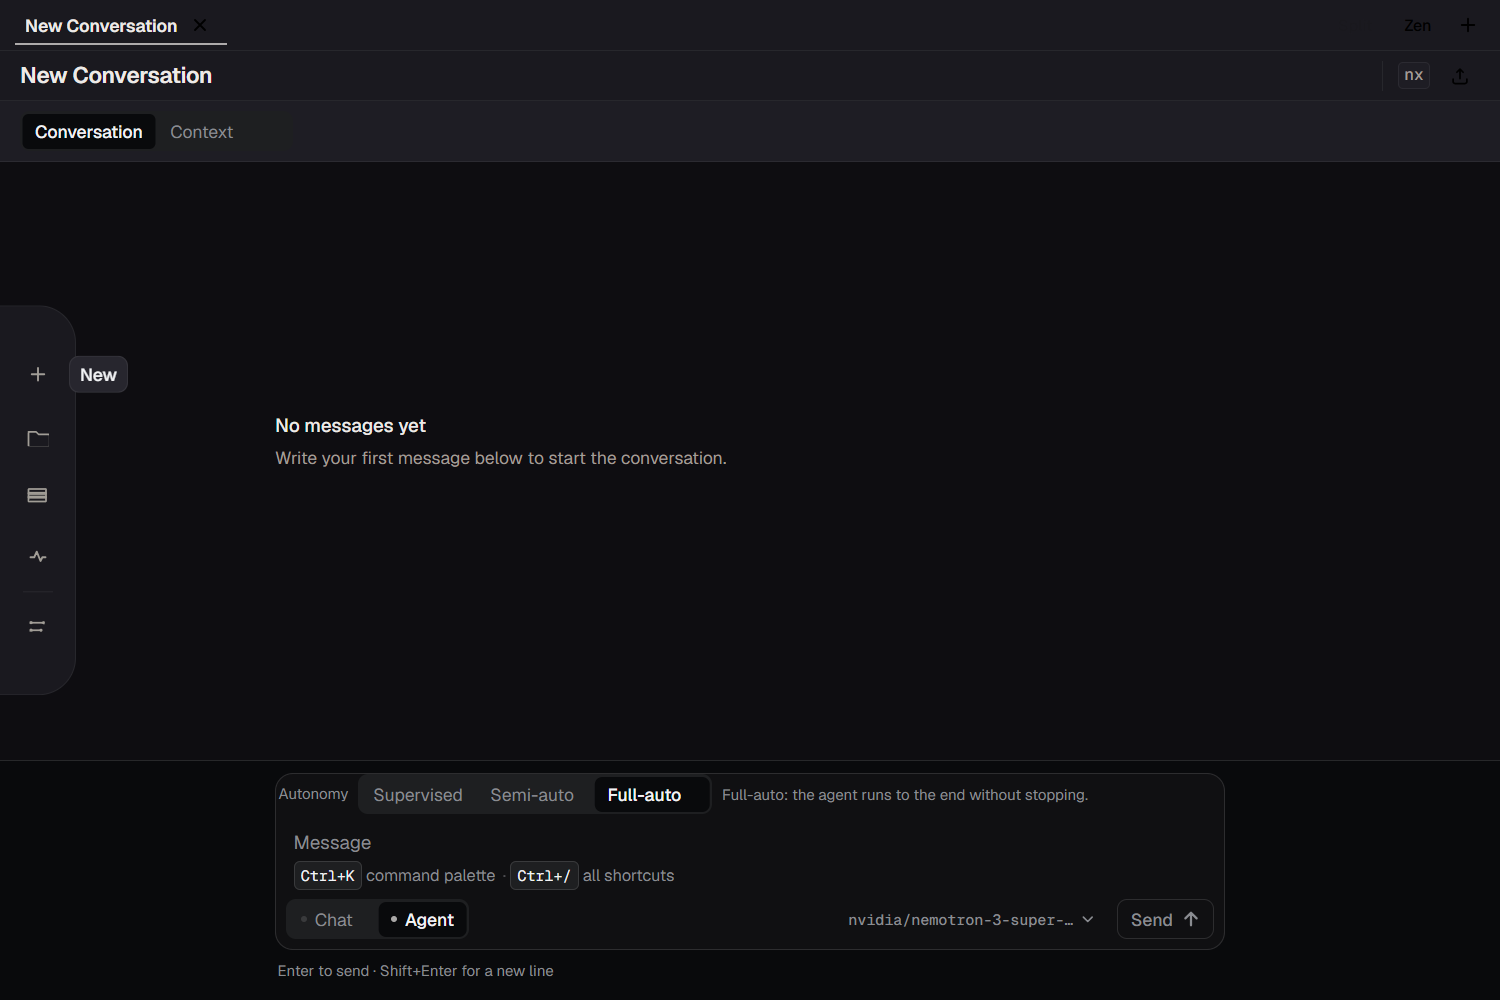
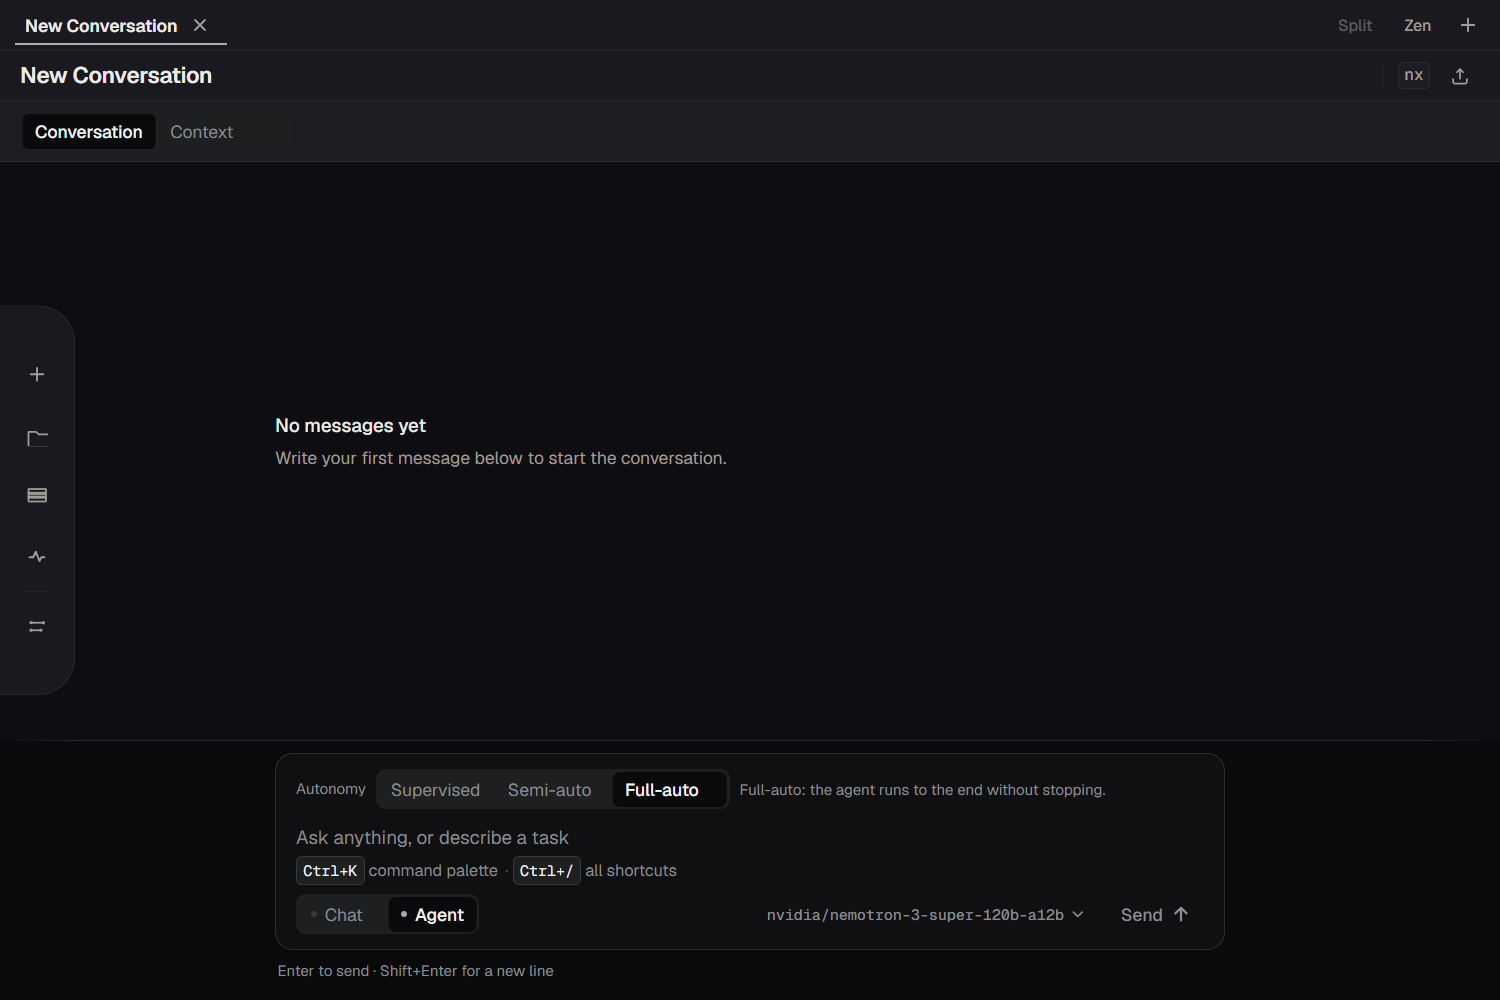
docs(proof): phase C frames on the final composer (placeholder, inset, unarmed Send, full model id)

diff --git a/docs/proof/round4/phase-c/README.md b/docs/proof/round4/phase-c/README.md
@@ -2,29 +2,31 @@
 
 Real Tauri build (`npm run tauri dev`), client area only, 125 % display scaling (a 1200×800
 CSS viewport is a 1500×1000 PNG). A conversation was opened through the Dock's "New" button
-so the composer is mounted; the pointer was parked off every hover target so no tooltip sits
-in a frame. Captured on top of the merged shell fixes (Dock gutter, shared reading axis,
-strip controls), so the frames show the composer as it will actually ship.
+and focus was moved off the Dock before each shot, so no tooltip sits in a frame. Captured on
+top of the merged shell fixes (Dock gutter, shared reading axis, scroll viewports, strip
+controls), so the frames show the composer as it will actually ship.
 
 | File | CSS viewport | PNG | MD5 | Colours | What I saw |
 |---|---|---|---|---|---|
-| `01-agent-1200x800-dark.png` | 1200×800 | 1500×1000 | `4C923EFC90A0AD95D2948B255BC53045` | 4181 | Pane opens in Agent: the mode pill rests on "Agent", the autonomy pill rests on "Full-auto" with an equal ring on both ends, the "Message" field is visible above the hint row, the model id is readable metadata, Send is drawn unarmed, and no attach control exists anywhere. The empty state sits on the same left edge as the composer card. |
-| `02-agent-1024x720-dark.png` | 1024×720 | 1280×900 | `CB62815F8C5BB6E3416AAE27B3B35B1E` | 4574 | Same state at the minimum window: the composer keeps its four rows without wrapping, the field and the model id stay legible, the axis holds at 164, nothing clips inside the card. |
+| `01-agent-1200x800-dark.png` | 1200×800 | 1500×1000 | `8EAADD2CF635EB92C33B68A7FD3FEDD1` | 4138 | Pane opens in Agent: the mode pill rests on "Agent", the autonomy pill rests on "Full-auto" with an equal ring on both ends, the field's placeholder reads "Ask anything, or describe a task" on the same left edge as the teaching row and the pill row beneath it, the model id shows in full (`nvidia/nemotron-3-super-120b-a12b`), Send is drawn unarmed with no border, and no attach control exists anywhere. The empty state, the placeholder and the composer card share one left edge. |
+| `02-agent-1024x720-dark.png` | 1024×720 | 1280×900 | `B62DDE81B4189609E9F579A5B4FAEBAB` | 4145 | Same state at the minimum window: the composer keeps its four rows without wrapping, the placeholder, teaching row and pills stay on one edge, the model id still shows in full, nothing clips inside the card, and the axis holds at 132 CSS. |
+| `03-agent-1536x800-dark.png` | 1536×800 | 1920×1000 | `DCF216F09A503ACE77499FE912EB0F1D` | 4138 | Same at the widest check point: the 760 px card stays centred at 388 CSS, the strip's right cluster keeps its place, and the wider window adds air on both sides of the column rather than stretching the measure. |
 
-Both frames are distinct and carry >900 colours.
+Every frame is distinct and carries >900 colours.
 
 ## What these frames prove / do not prove
 
 - Prove: Agent is the default mode in a real build; the attachment affordance is absent in
-  Agent; the composer shows an editable field with its "Message" legend; the Glide Select
-  pill is seated symmetrically inside its track in two groups (mode and autonomy) at two
-  widths; Send is visibly unarmed on an empty draft; the reading column is shared with the
-  transcript.
+  Agent; the field carries an instructive placeholder (not a noun) with no chrome of its own;
+  all four rows inside the card share one inner inset; the model id is readable in full at all
+  three widths; Send is visibly unarmed on an empty draft; the Glide Select pill is seated
+  symmetrically inside its track in two groups at three widths; the reading column is shared
+  with the transcript and the empty state.
 - Do not prove: the pill's motion (a still cannot), the model picker's row layout with its
   popover closed (covered by tests), Chat-mode paint, running/approval/complete states, RU,
-  light theme, 200 % zoom — those rows stay open for Phases D–F.
+  light theme, 200 % zoom, hover/focus-visible — those rows stay open for Phases D–F.
 
-## Fixed in this phase after the first QA pass
+## Fixed in this phase after the visual passes
 
 - The teaching legend painted an opaque card-toned plate over the textarea's first line, so
   the field looked absent. It is now a static row below the field.
@@ -33,4 +35,13 @@ Both frames are distinct and carry >900 colours.
   grey (5.64:1 on the card).
 - The pill was measured with integer `offsetLeft`/`offsetWidth` on fractional grid seats and
   lost its radius to a utility class, so it sat flush against the track's right edge; it is
-  now published from `getBoundingClientRect` and shares the segment's radius token.
+  now published from `getBoundingClientRect` and shares the segment's radius token — one
+  `--seg-radius` declaration governs both the seat and the pill.
+- The placeholder was the noun "Message", which read as a form label with nothing under it.
+  It now instructs, while the accessible name stays the short noun.
+- Rows inside the card started on four different left edges (autonomy 3.2, placeholder 16,
+  teaching 16.8, bar track 8.8 CSS px) because the field's shared-class inline padding
+  double-counted the shell's inset. One inset now lives on the container; the rows declare
+  none, and the field resets the shared padding explicitly.
+- Send carried a full hairline and a mid-grey label, so it read as an enabled secondary
+  button on an empty draft. Unarmed is now borderless and unfilled; armed is the light fill.
